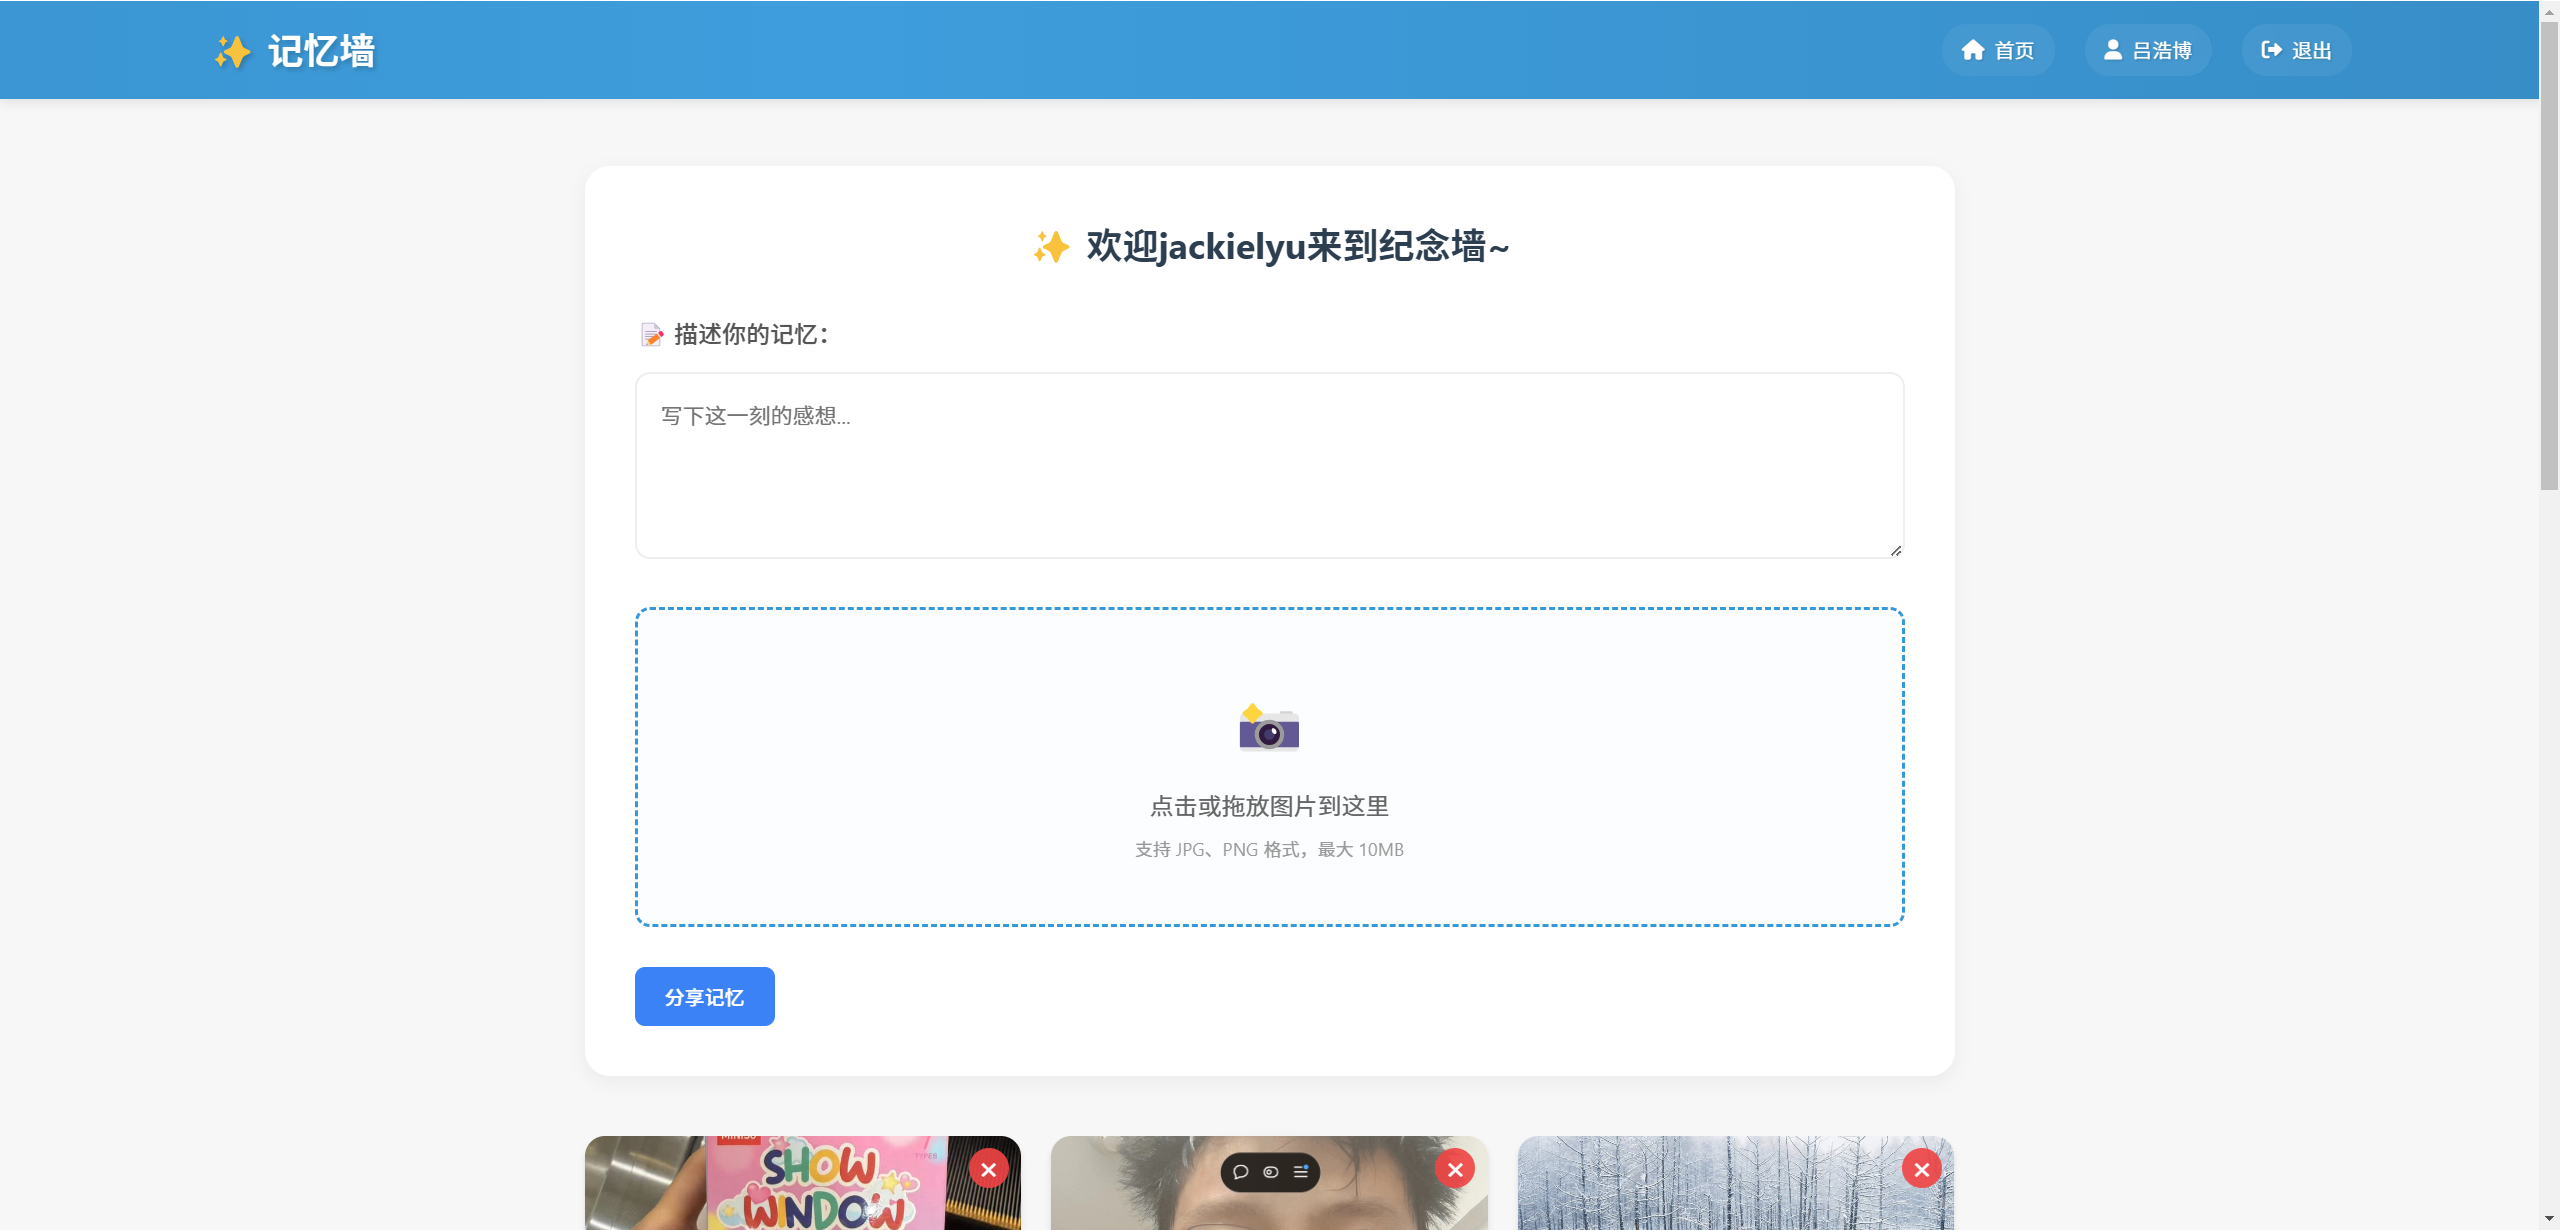
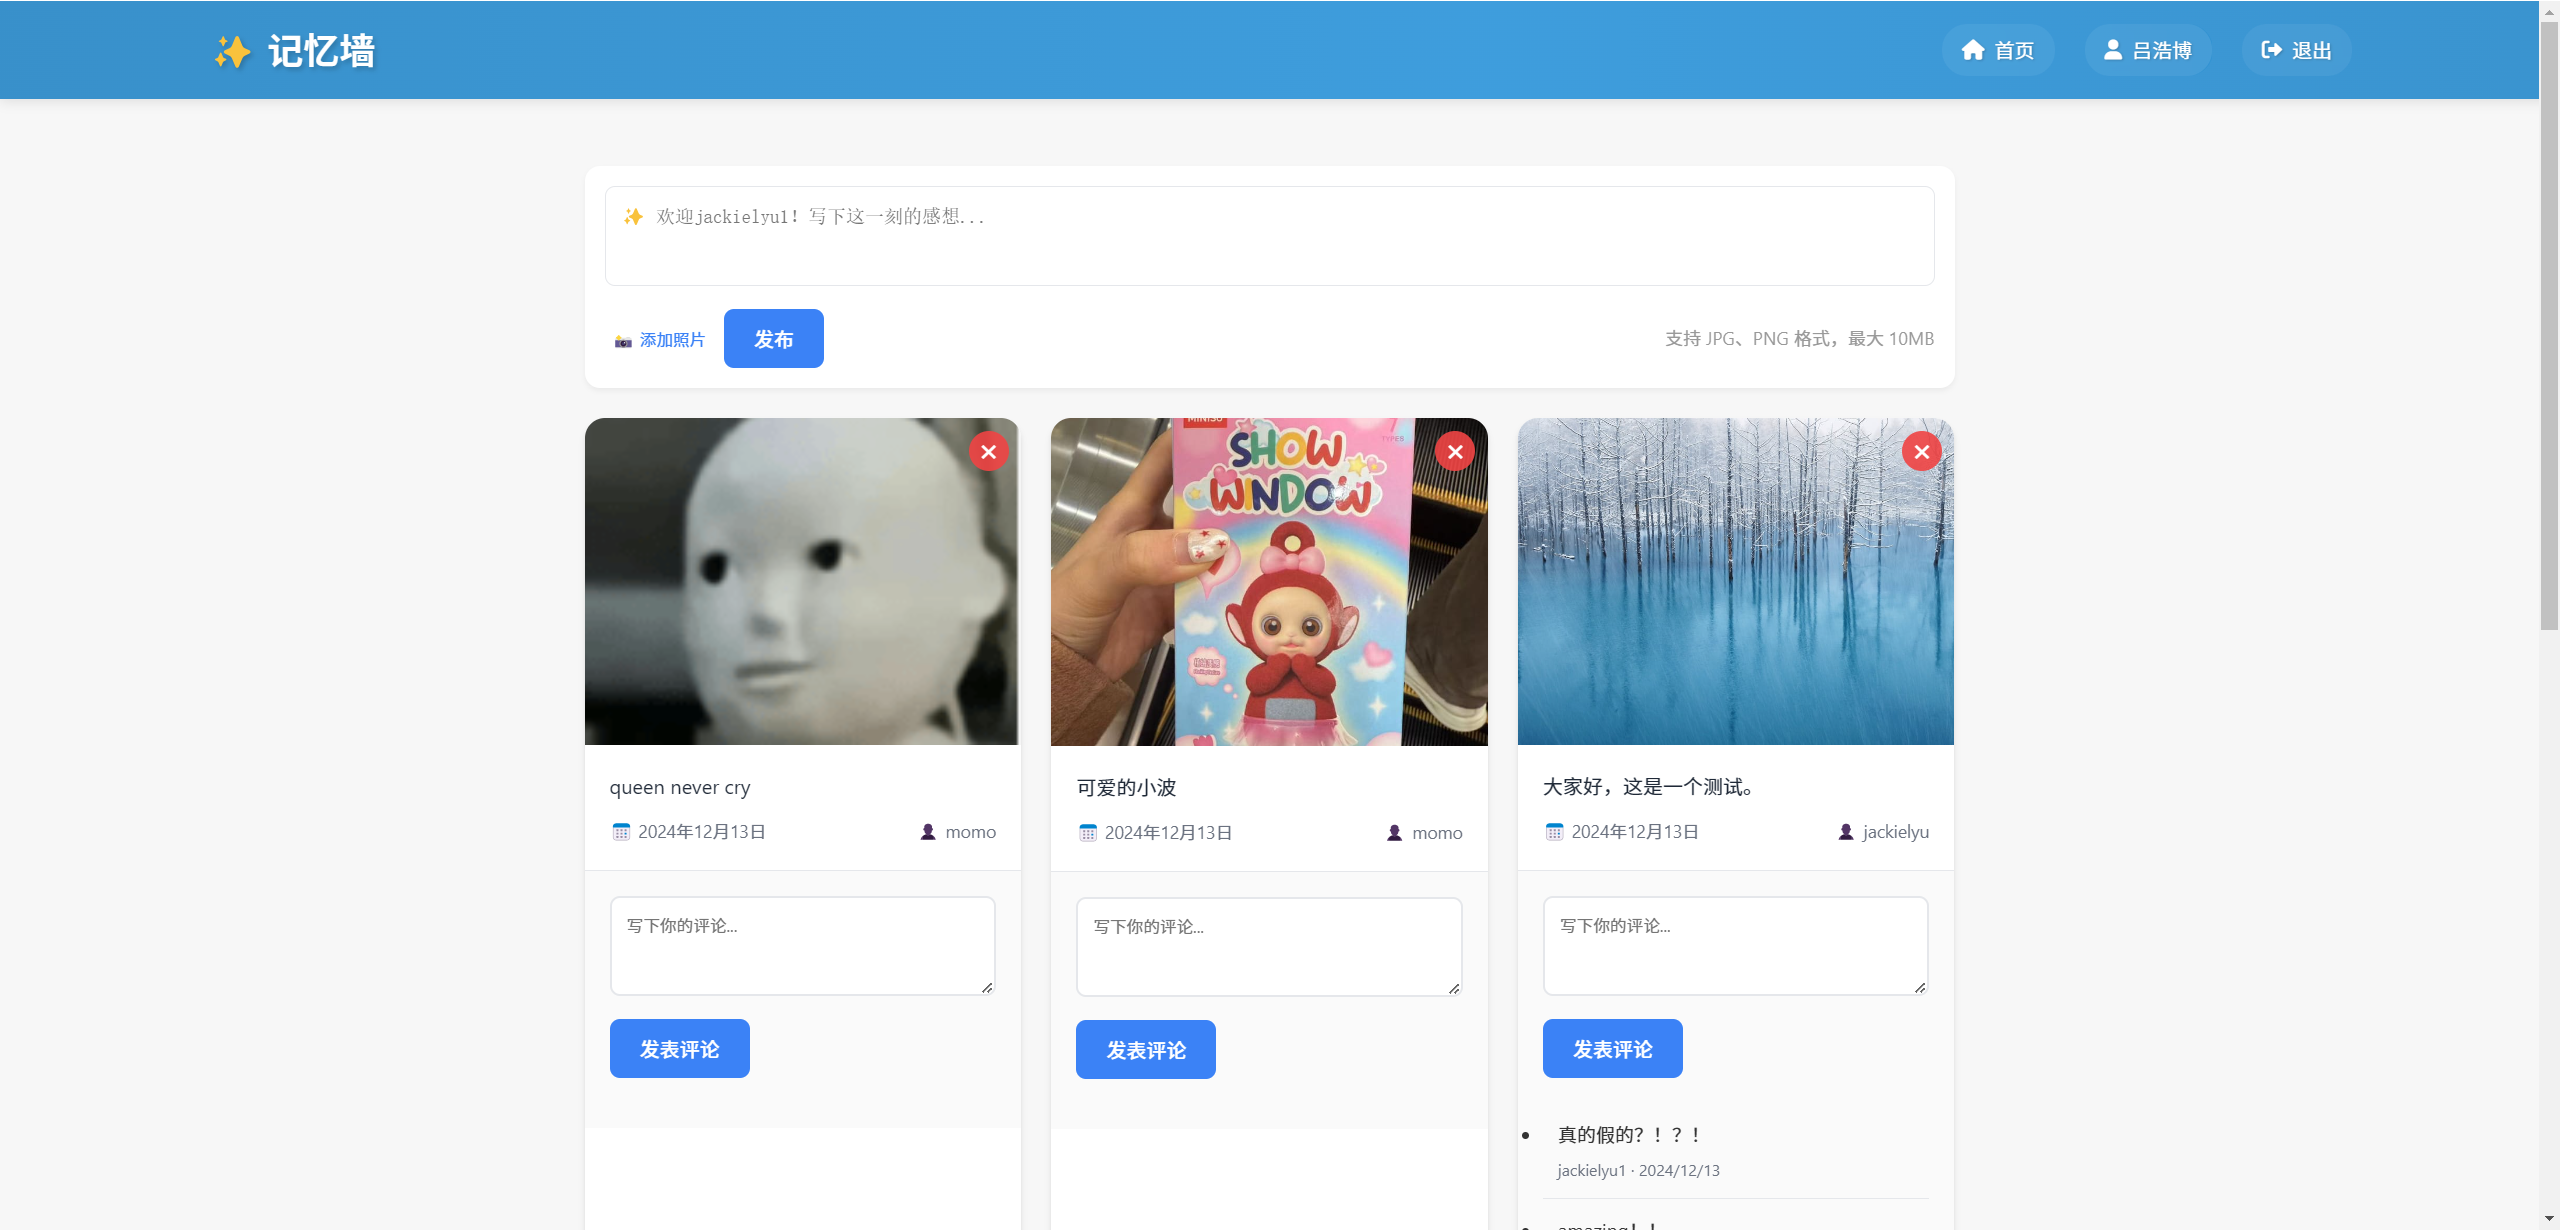
Refactor image upload and delete functionality; update styles and README

diff --git a/public/stylesheets/style.css b/public/stylesheets/style.css
@@ -15,4 +15,68 @@
     text-align: center;
     margin: 20px 0;
     color: #333;
-} 
+}
+
+/* 添加新的发布区域样式 */
+.tweet-form {
+    background-color: var(--card-background);
+    border-radius: 12px;
+    padding: 16px;
+    box-shadow: 0 2px 4px rgba(0, 0, 0, 0.05);
+    margin-bottom: 24px;
+}
+
+.tweet-form textarea {
+    width: 100%;
+    min-height: 80px;
+    padding: 12px;
+    border: 1px solid var(--border-color);
+    border-radius: 8px;
+    font-size: 0.95rem;
+    resize: none;
+    margin-bottom: 12px;
+}
+
+.tweet-form-footer {
+    display: flex;
+    justify-content: space-between;
+    align-items: flex-start;
+    flex-direction: column;
+    gap: 12px;
+}
+
+.tweet-form-actions {
+    width: 100%;
+    display: flex;
+    justify-content: space-between;
+    align-items: center;
+}
+
+.image-upload-btn {
+    background: none;
+    border: 1px solid var(--border-color);
+    color: var(--primary-color);
+    cursor: pointer;
+    padding: 8px 16px;
+    border-radius: 8px;
+    display: flex;
+    align-items: center;
+    gap: 8px;
+    font-size: 0.9rem;
+}
+
+.image-upload-btn:hover {
+    background-color: rgba(59, 130, 246, 0.1);
+    border-color: var(--primary-color);
+}
+
+.upload-hint {
+    color: var(--text-secondary);
+    font-size: 0.8rem;
+    margin-top: 8px;
+}
+
+.btn-primary {
+    border-radius: 8px;
+}
+ 

diff --git a/routes/memories.js b/routes/memories.js
@@ -1,6 +1,7 @@
 const express = require('express');
 const router = express.Router();
 const Memory = require('../models/Memory');
+const cloudinary = require('cloudinary').v2;
 const { requireAuth } = require('../middlewares/auth');
 
 router.post('/', requireAuth, async (req, res, next) => {
@@ -13,6 +14,34 @@ router.post('/', requireAuth, async (req, res, next) => {
     res.redirect('/');
   } catch (error) {
     next(error);
+  }
+});
+
+router.delete('/:id', requireAuth, async (req, res) => {
+  try {
+    const memory = await Memory.findById(req.params.id);
+    
+    if (!memory) {
+      return res.status(404).json({ message: '记忆不存在' });
+    }
+
+    if (memory.user && 
+        memory.user.toString() !== req.user._id.toString() && 
+        req.user.realName !== '吕浩博') {
+      return res.status(403).json({ message: '没有权限删除此记忆' });
+    }
+
+    if (memory.imageUrl) {
+      const publicId = memory.imageUrl.split('/').pop().split('.')[0];
+      await cloudinary.uploader.destroy(publicId);
+    }
+
+    await Memory.findByIdAndDelete(req.params.id);
+
+    res.json({ message: '记忆已成功删除' });
+  } catch (error) {
+    console.error('删除记忆时出错:', error);
+    res.status(500).json({ message: '删除记忆时出错' });
   }
 });
 

diff --git a/README.md b/README.md
@@ -6,7 +6,6 @@
 
 <div align="center">
   <img src="demo1.png" alt="主页展示" width="600px" />
-  <img src="demo2.png" alt="帖子列表展示" width="600px" />
   <img src="demo3.png" alt="登录页面" width="600px" />
   
    [[开始使用]](#🚀-快速开始) 
